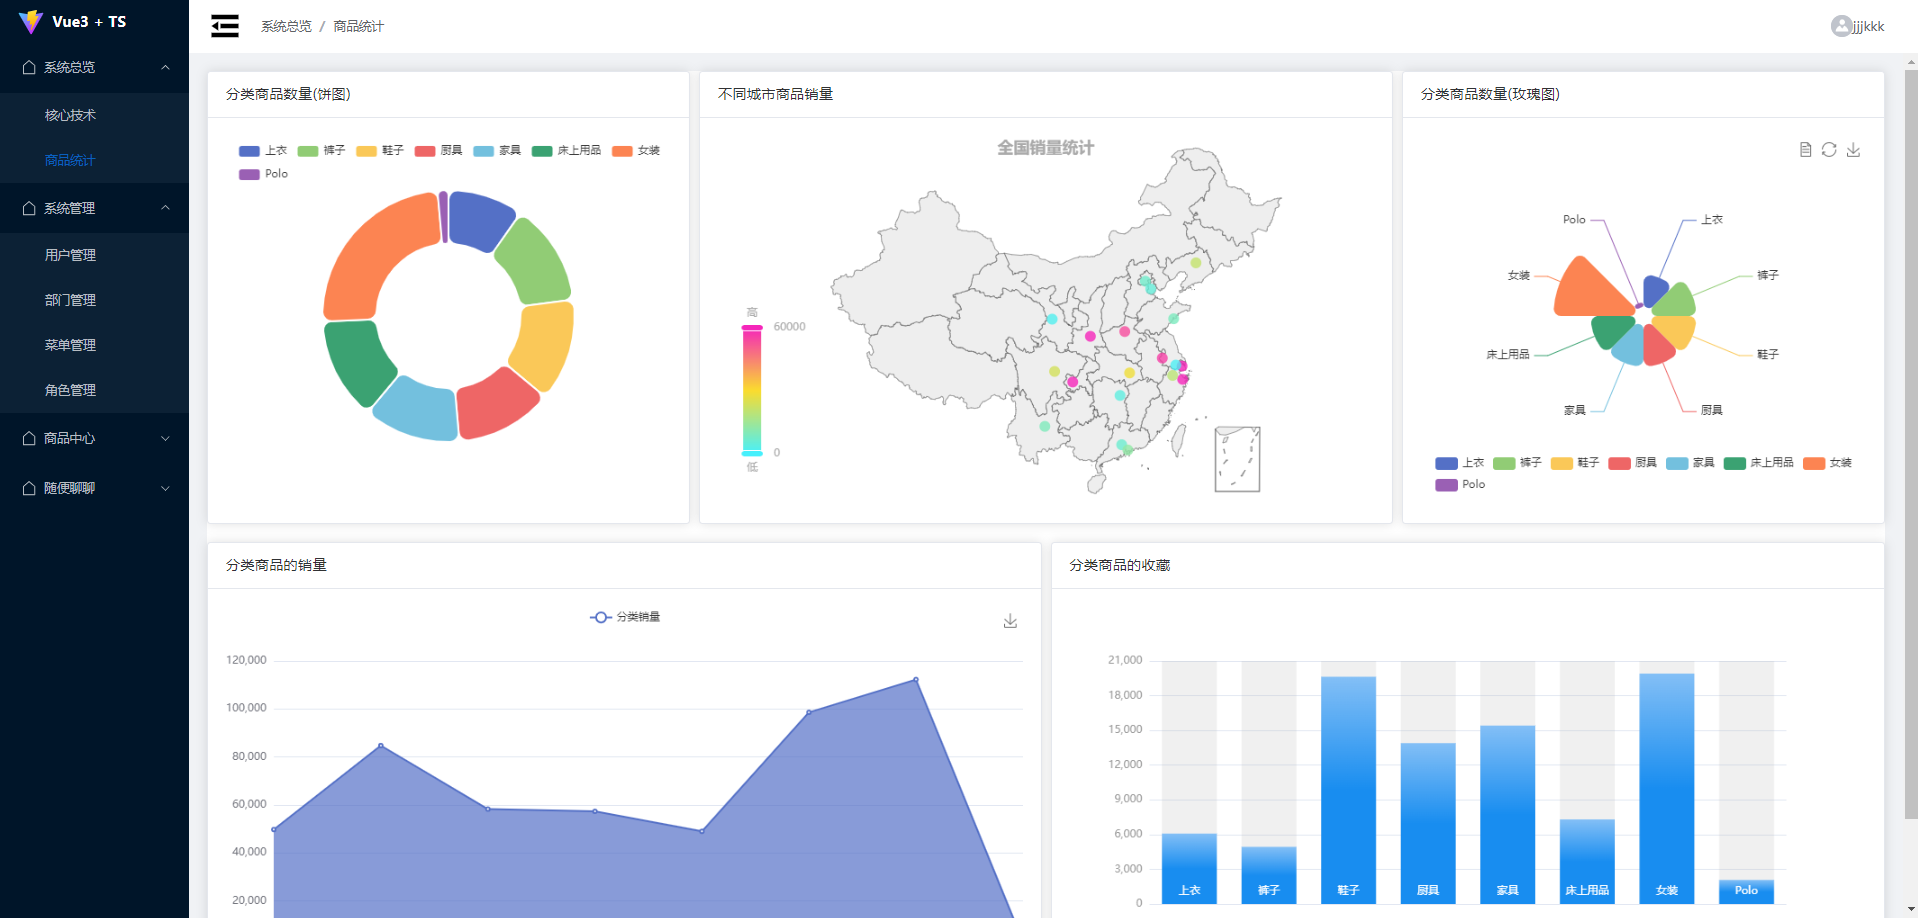
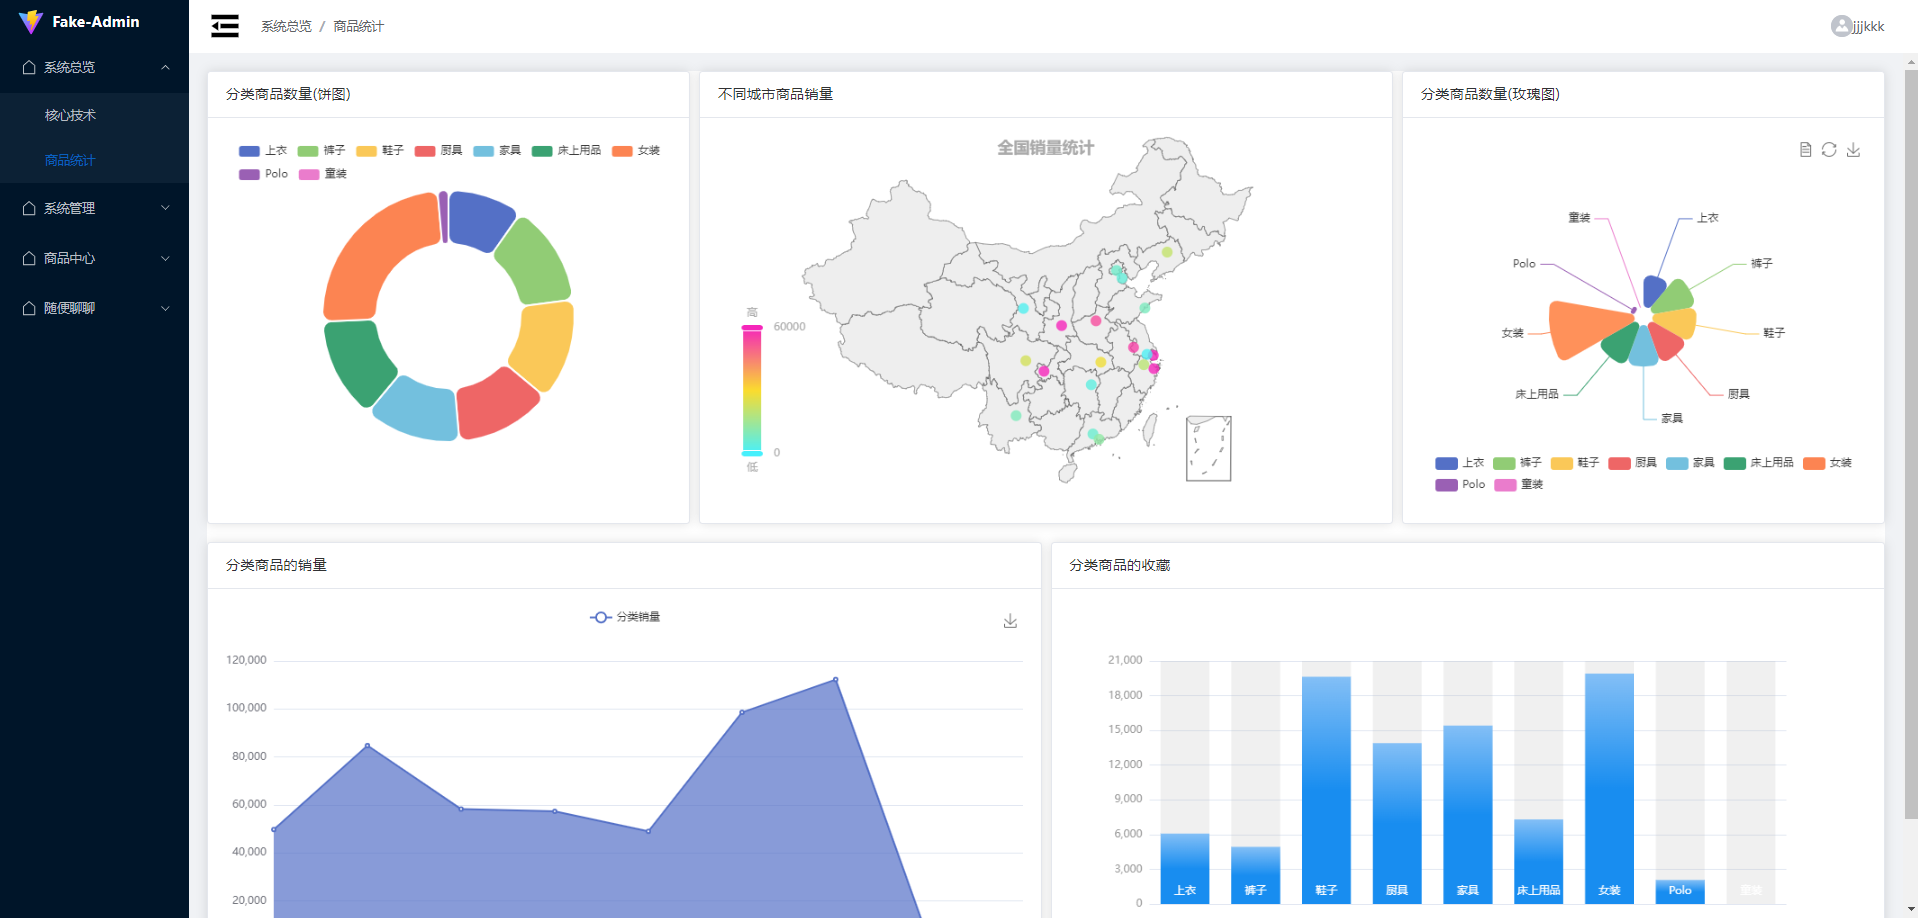
docs(修改readme.md): 修改readme.md

diff --git a/src/utils/map-menus.ts b/src/utils/map-menus.ts
@@ -7,7 +7,7 @@ export async function mapMenusToRoutes(userMenus: any[]): Promise<RouteRecordRaw
   const routes: RouteRecordRaw[] = [];
   // 1. 先去加载默认所有的routes
   const allRoutes: RouteRecordRaw[] = [];
-  const routeFiles = import.meta.glob("../router/main/**/*.ts");
+  const routeFiles = import.meta.glob("../router/main/**/*.ts"); // 导入所有的路由文件
   for (const path in routeFiles) {
     const route: any = await routeFiles[path]();
     allRoutes.push(route.default);

diff --git a/src/components/nav-menu/src/nav-menu.vue b/src/components/nav-menu/src/nav-menu.vue
@@ -2,7 +2,7 @@
   <div class="nav-menu">
     <div class="logo">
       <img src="~@/assets/img/logo.svg" alt="logo" class="img" />
-      <span v-if="!props.collapse" class="title">Vue3 + TS</span>
+      <span v-if="!props.collapse" class="title">Fake-Admin</span>
     </div>
     <el-menu
       :default-active="defaultValue"

diff --git a/README.md b/README.md
@@ -3,7 +3,7 @@
 
 技术栈：Vite+Vue3+TypeScript+Pinia+Axios+Element-Plus+Echarts：
 * 使用Element-Plus组件库来设计页面的样式，对每个页面中重用的组件进行封装。
-* 使用基于TypeScript的接口声明，对每个数据对象规范其内部数据类型，并通过编写配置文件的方式来决定每个组件的数据内容。
+* 使用基于TypeScript的接口声明，对每个数据对象规范其内部数据类型，并通过编写配置文件config.ts的方式来导入所需要的属性，进而实现快速开发。组件内规范了想要调用的事件名称，使用emit来发送事件，父组件就监听emit并执行相应的函数。
 * 使用自动化工具生成路由与组件的映射，并通过注册动态路由的方式，为不同权限的人员展示不同的导航菜单。
 * 使用Pinia来对数据进行统一的管理，通过封装Axios实例来统一网络请求的接口。在Pinia中进行统一的数据请求，进而方便数据的统一获取以及组件的封装与复用。
 * 通过封装与使用Echarts组件来对商品数量、销量、收藏量以及在不同城市的销量进行可视化实现。
@@ -31,11 +31,20 @@
 * 登录态使用JWT来实现：发送用户名和密码到服务端，然后服务端检验用户名和密码的正确性，并创建一个jwt做返回。
   * 这里为了使用方便就将token放到了pinia和localstorage中进行管理，并且封装了一个localstorage的工具类cache来方便调用localstorage。
   * 后续每次请求数据的时候就先从pinia中取出(如果没有就从localstorage中拿)并放到Authorization中。
+* 不同权限的用户只能获得其对应的导航栏功能模块，这部分使用动态路由注册来实现。
+  * 登录的时候后端会返回该用户所能使用的userMenus的路由。
+  * 然后先拿到`/main`下的所有路由文件routes并加载，紧接着用userMenus的路由去匹配routes，如果匹配上就拿出routes中的route对象去addroute。※
+  * 为了能在登录进入系统后，按f5刷新时也能获取路由，这部分的加载就放到了main.ts中，加载完后再进行app.use(router)。※
 
 ![alt text](./project_images/login.png)
-
 ### 基于echart的商品统计页面
 由于每个echart组件都是传入一个options来实现不同的样式的，所以就封装一个base-echart组件，不同样式的组件就使用写配置文件的方式来写options。最后要用的时候就import配置文件，然后v-bind到base-echart就能直接用。
 * 对每个组件添加了对窗口resize的监听事件，在内部调用echart实例的resize()，进而让其echart的大小能随着窗口的缩放而缩放。
+* 目前bar-chart有个bug，就是拿到数据后不会显示数据，而其他chart是可以的，我感觉像是这个echart组件有问题。
 
 ![alt text](./project_images/product_summary.png)
+
+### 用户管理
+像高级检索这个组件和新建数据时的弹框是重复组件，它们就额外抽出来作为单独组件进行封装。然后定义数据对象的interface，通过写配置文件config.ts的方式来导入所需要的属性，进而实现快速开发。组件内规范了想要调用的事件名称，使用emit来发送事件，父组件就监听emit并执行相应的函数。
+
+![alt text](./project_images/user_admin.png)
